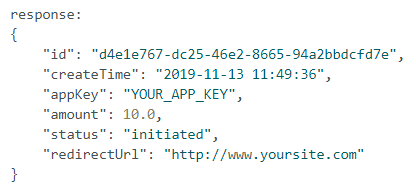
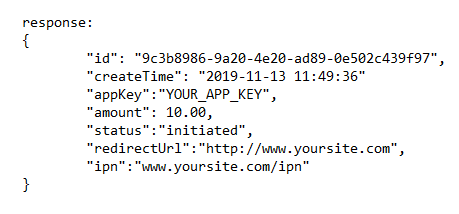
Content change

diff --git a/src/app/home/components/home-default/home-default.component.html b/src/app/home/components/home-default/home-default.component.html
@@ -122,7 +122,7 @@
 
     </div>
 </div>
-<div *ngIf="isMerchant">
+<div *ngIf='isMerchant'>
     <div class='m-40'>
         <mat-card>
             <div fxLayout='column' fxLayoutAlign='center start' fxLayoutGap='16px' class='p-40'>
@@ -155,6 +155,7 @@
                 <div>
                     URL:<a>http://103.221.253.163:8080/api/external/invoice</a>
                 </div>
+
                 <div>
                     <div>
                         Method: POST
@@ -167,6 +168,10 @@
                         <div class='ml-16'>The amount you want to charge for this invoice.</div>
                         <div>redirectUrl <span class='rejected-color'>Compulsory</span></div>
                         <div class='ml-16'>Redirect url after payment.</div>
+                        <div>ipn <span class='rejected-color'>Optional</span></div>
+                        <div class='ml-16'>Where the system will notify when the payment was made. This will notify only on success/failed
+                                payment</div>
+
                     </div>
 
 
@@ -179,7 +184,7 @@
                 <div>
                     <mat-card>
                         <div class='p-16'>
-                            <img src="assets/body.png" class='w-100-p h-100-p'>
+                            <img src="assets/body2.PNG" class='w-100-p h-100-p'>
 
                         </div>
 
@@ -207,6 +212,8 @@
                         <mat-list-item class='h-20 font-weight-950'> Amount </mat-list-item>
                         <mat-list-item class='h-20 font-weight-950'> Status </mat-list-item>
                         <mat-list-item class='h-20 font-weight-950'> redirectUrl </mat-list-item>
+                        <mat-list-item class='h-20 font-weight-950'> ipn </mat-list-item>
+
                     </mat-list>
 
                 </div>
@@ -253,6 +260,13 @@
                     <a> http://103.221.253.263:3000/api/payment?invoice=Your_Invoice_ID</a>
 
                 </div>
+                <!-- <div>
+                        <span class='font-size-20 font-weight-850'>IPN name:</span>
+
+                    ipn Valid http url OPTIONAL
+                    Where the system will notify when the payment was made. This will notify only on success/failed
+                    payment
+                </div> -->
                 <!-- <div class='font-size-24 font-weight-950'>
                     <u>Withdraw</u>
 
